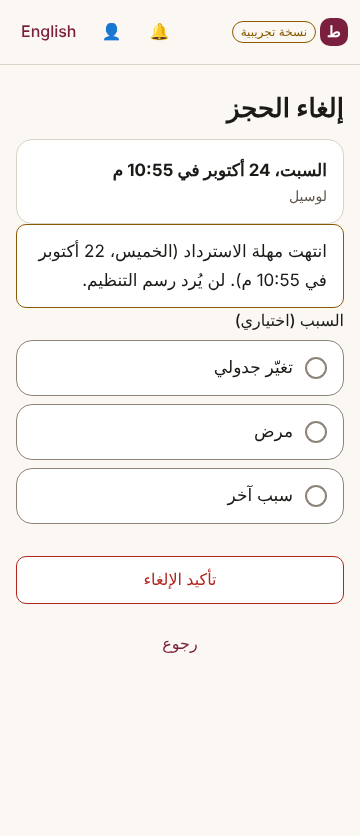
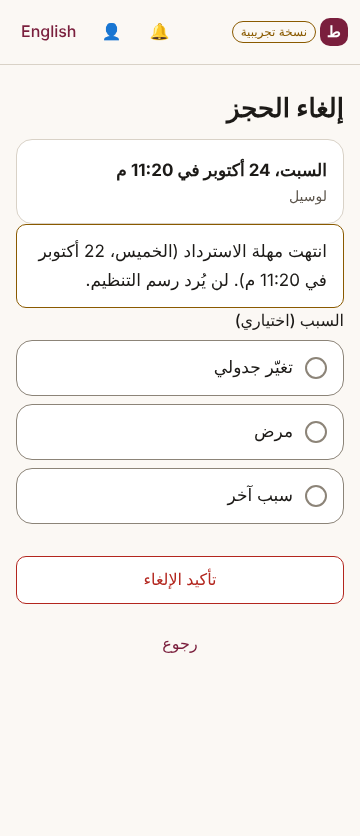
Audit remediation F1 + F5: late-booking refund terms, admin sign-in lockout
F1 (critical): the review screen promised a full refund until a deadline that
had already passed. The API now reports the real terms (full_refund_window_open,
refund_if_cancelled_after_payment, late_cancel_refund_pct, acknowledgement_required).
After the full-refund cut-off a booking gets no checkout URL until the user
acknowledges the no-refund terms via POST /bookings/{id}/checkout
{acknowledge_late_no_refund: true} (422 LATE_ACK_REQUIRED otherwise); the time is
stored on the booking and audited. The review screen shows a warning and a
required checkbox instead of the stale promise.

F5 (high): failed admin sign-ins and enrolments are recorded per e-mail hash and
IP prefix (migration 005). 5 failures per e-mail or 20 per IP prefix inside 15
minutes -> 429 ADMIN_LOGIN_LOCKED with Retry-After, checked before the TOTP or
token is verified; serialised per e-mail; lockouts audited; limits in app_config.

Tests: new F1 and F5 e2e tests; UI test asserts the warning and the required
acknowledgement. 18/18 tests, runbooks A/B, pytest 42/42, schema checks pass.

Claude-Session: https://claude.ai/code/session_01FEXgDqNsHx3oP1pnWG1BkE

Changed region(s): [[0.2444, 0.311, 0.825, 0.3732], [0.3056, 0.1866, 0.4889, 0.2177]]

diff --git a/qatar/api/src/routes/admin.js b/qatar/api/src/routes/admin.js
@@ -11,26 +11,82 @@ const ANY = ["owner", "ops", "finance", "trust_safety", "analyst", "researcher",
 const P4_REASONS = ["case_triage", "investigation", "second_approval", "appeal_review", "legal_request"];
 
 // ------------------------------------------------------------------ auth
+// Brute-force protection (audit F5): failed sign-ins / enrolments are recorded per e-mail hash and IP prefix.
+// Too many failures inside the window -> 429 + Retry-After, checked before the secret is verified.
+async function lockedFor(tx, kind, emailHash, ipTrunc, cfg) {
+  const win = cfg.adminLoginWindowMinutes;
+  const retry = async (rows, max) => {
+    if (rows.length < max) return 0;
+    const oldest = new Date(rows[rows.length - 1].attempted_at).getTime();
+    return Math.max(1, Math.ceil((oldest + win * 60000 - Date.now()) / 1000));
+  };
+  // per e-mail: failures since the last success, inside the window
+  const byEmail = await tx`
+    SELECT attempted_at FROM app.admin_auth_attempts
+     WHERE kind = ${kind} AND email_hash = ${emailHash} AND NOT succeeded AND attempted_at > now() - make_interval(mins => ${win})
+       AND attempted_at > COALESCE((SELECT max(attempted_at) FROM app.admin_auth_attempts
+                                     WHERE kind = ${kind} AND email_hash = ${emailHash} AND succeeded), '-infinity')
+     ORDER BY attempted_at DESC LIMIT ${cfg.adminMaxFailsPerEmail}`;
+  const e = await retry(byEmail, cfg.adminMaxFailsPerEmail);
+  if (e) return { retryAfter: e, scope: "email" };
+  if (!ipTrunc) return null;
+  // per IP prefix: all failed sign-ins and enrolments, any e-mail
+  const byIp = await tx`
+    SELECT attempted_at FROM app.admin_auth_attempts
+     WHERE ip_trunc = ${ipTrunc}::inet AND NOT succeeded AND attempted_at > now() - make_interval(mins => ${win})
+     ORDER BY attempted_at DESC LIMIT ${cfg.adminMaxFailsPerIp}`;
+  const i = await retry(byIp, cfg.adminMaxFailsPerIp);
+  return i ? { retryAfter: i, scope: "ip" } : null;
+}
+
+// Runs check -> verify -> record in one transaction, serialised per e-mail so parallel guesses cannot overshoot the limit.
+async function throttledAttempt(ctx, kind, email, verify) {
+  const emailHash = sha256hex(email);
+  const out = await ctx.sql.begin(async (tx) => {
+    await tx`SELECT pg_advisory_xact_lock(hashtext(${`admin-auth:${kind}:${emailHash}`}))`;
+    const locked = await lockedFor(tx, kind, emailHash, ctx.ipTrunc, ctx.cfg);
+    if (locked) return { locked };
+    const ok = await verify(tx);
+    await tx`INSERT INTO app.admin_auth_attempts (kind, email_hash, ip_trunc, succeeded)
+             VALUES (${kind}, ${emailHash}, ${ctx.ipTrunc}::inet, ${!!ok})`;
+    return { ok };
+  });
+  if (out.locked) {
+    await audit(ctx.sql, null, `admin_${kind}_locked`, "admin_users", null, out.locked.scope, ctx.ipTrunc);
+    fail(429, "ADMIN_LOGIN_LOCKED", null, { retry_after: out.locked.retryAfter });
+  }
+  if (!out.ok) await new Promise((r) => setTimeout(r, 300));
+  return out.ok;
+}
+
 async function enroll(ctx) {
-  const { sql, body, keys } = ctx;
-  const email = String(body.email || "").toLowerCase();
-  const [a] = await sql`SELECT * FROM app.admin_users WHERE lower(email) = ${email} AND status = 'active'`;
-  if (!a || !a.enroll_token_hash || a.enroll_token_hash.trim() !== sha256hex(String(body.enroll_token || "")) || new Date(a.enroll_expires_at) < new Date())
-    fail(401, "ENROLLMENT_INVALID");
+  const { body, keys } = ctx;
+  const email = String(body.email || "").trim().toLowerCase();
+  let admin = null;
   const secret = newTotpSecret();
-  await sql`UPDATE app.admin_users SET totp_secret_enc = ${encrypt(keys.dataKey, secret)}, mfa_enabled = true,
-                   enroll_token_hash = NULL, enroll_expires_at = NULL WHERE id = ${a.id}`;
-  await audit(sql, a.id, "admin_mfa_enrolled", "admin_users", a.id, "totp");
-  return json(200, { secret, otpauth_uri: `otpauth://totp/%7BBRAND%7D%20Admin:${encodeURIComponent(a.email)}?secret=${secret}&issuer=%7BBRAND%7D&digits=6&period=30` });
+  const ok = await throttledAttempt(ctx, "enroll", email, async (tx) => {
+    const [a] = await tx`SELECT * FROM app.admin_users WHERE lower(email) = ${email} AND status = 'active'`;
+    if (!a || !a.enroll_token_hash || a.enroll_token_hash.trim() !== sha256hex(String(body.enroll_token || "")) || new Date(a.enroll_expires_at) < new Date())
+      return false;
+    await tx`UPDATE app.admin_users SET totp_secret_enc = ${encrypt(keys.dataKey, secret)}, mfa_enabled = true,
+                    enroll_token_hash = NULL, enroll_expires_at = NULL WHERE id = ${a.id}`;
+    await audit(tx, a.id, "admin_mfa_enrolled", "admin_users", a.id, "totp");
+    admin = a;
+    return true;
+  });
+  if (!ok) fail(401, "ENROLLMENT_INVALID");
+  return json(200, { secret, otpauth_uri: `otpauth://totp/%7BBRAND%7D%20Admin:${encodeURIComponent(admin.email)}?secret=${secret}&issuer=%7BBRAND%7D&digits=6&period=30` });
 }
 
 async function login(ctx) {
   const { sql, body, keys } = ctx;
-  const [a] = await sql`SELECT * FROM app.admin_users WHERE lower(email) = ${String(body.email || "").toLowerCase()} AND status = 'active'`;
-  if (!a || !a.totp_secret_enc || !totpVerify(decrypt(keys.dataKey, a.totp_secret_enc), String(body.totp_code || ""))) {
-    await new Promise((r) => setTimeout(r, 300));
-    fail(401, "LOGIN_FAILED");
-  }
+  const email = String(body.email || "").trim().toLowerCase();
+  let a = null;
+  const ok = await throttledAttempt(ctx, "login", email, async (tx) => {
+    [a] = await tx`SELECT * FROM app.admin_users WHERE lower(email) = ${email} AND status = 'active'`;
+    return !!(a && a.totp_secret_enc && totpVerify(decrypt(keys.dataKey, a.totp_secret_enc), String(body.totp_code || "")));
+  });
+  if (!ok) fail(401, "LOGIN_FAILED");
   await sql`UPDATE app.admin_users SET last_login_at = now() WHERE id = ${a.id}`;
   await audit(sql, a.id, "admin_login", "admin_users", a.id, "totp", ctx.ipTrunc);
   const tokens = await issueTokens(ctx, "admin", a.id);

diff --git a/qatar/api/src/routes/user.js b/qatar/api/src/routes/user.js
@@ -64,6 +64,20 @@ async function ownedBooking(sql, ctx, id, lock = false) {
 const district = (s, locale) => (locale === "en" ? s.district_hint_en : s.district_hint_ar);
 const hoursBefore = (ts, h) => new Date(new Date(ts).getTime() - h * 3600 * 1000);
 
+// Refund terms that apply to a booking right now (audit F1): after the full-refund cut-off the fee is not refunded
+// (or only late_cancel_refund_pct), so an unpaid booking must carry an explicit acknowledgement before checkout.
+async function refundTerms(sql, b, s = null) {
+  const [cp] = await sql`SELECT full_refund_until_hours, late_cancel_refund_pct FROM app.cancellation_policies WHERE version = ${b.cancellation_policy_version}`;
+  if (!s) [s] = await sql`SELECT starts_at FROM app.event_sessions WHERE id = ${b.session_id}`;
+  const fullUntil = hoursBefore(s.starts_at, cp.full_refund_until_hours);
+  const windowOpen = new Date() <= fullUntil;
+  return { fullUntil, windowOpen, hours: cp.full_refund_until_hours, pct: cp.late_cancel_refund_pct,
+    afterPayment: windowOpen ? "full" : cp.late_cancel_refund_pct > 0 ? "partial" : "none",
+    ackRequired: b.status === "payment_pending" && !windowOpen && !b.late_no_refund_ack_at };
+}
+const termsView = (t) => ({ full_refund_until: qa(t.fullUntil), full_refund_until_hours: t.hours, full_refund_window_open: t.windowOpen,
+  refund_if_cancelled_after_payment: t.afterPayment, late_cancel_refund_pct: t.pct, acknowledgement_required: t.ackRequired ? "late_no_refund" : null });
+
 async function tableMembers(sql, tableId) {
   return sql`
     SELECT b.id AS booking_id, b.user_id, u.display_name FROM app.table_assignments a
@@ -412,8 +426,10 @@ async function createBooking(ctx) {
     throw e;
   }
   const { b, p } = result;
+  const terms = await refundTerms(sql, b, s);
   return json(201, { booking_id: b.id, ref: b.booking_ref, status: b.status, hold_expires_at: qa(b.hold_expires_at),
-    checkout_url: ctx.psp.checkoutUrl(b.id, p.psp_payment_intent_id), amount: money(b.price_minor, locale) });
+    checkout_url: terms.ackRequired ? null : ctx.psp.checkoutUrl(b.id, p.psp_payment_intent_id), amount: money(b.price_minor, locale),
+    cancellation: termsView(terms) });
 }
 
 async function listBookings(ctx) {
@@ -440,10 +456,12 @@ async function getBooking(ctx) {
   const b = await ownedBooking(sql, ctx, ctx.params.id);
   const [p] = await sql`SELECT * FROM app.payments WHERE booking_id = ${b.id} ORDER BY created_at DESC LIMIT 1`;
   const holdValid = b.status === "payment_pending" && b.hold_expires_at && new Date(b.hold_expires_at) > new Date();
+  const terms = await refundTerms(sql, b);
   return json(200, { id: b.id, ref: b.booking_ref, status: b.status, hold_expires_at: qa(b.hold_expires_at),
     amount: money(b.price_minor, locale),
     payment: p ? { status: p.status, failure_code: p.failure_code } : null,
-    checkout_url: holdValid && p && p.status === "created" ? ctx.psp.checkoutUrl(b.id, p.psp_payment_intent_id) : null });
+    checkout_url: holdValid && !terms.ackRequired && p && p.status === "created" ? ctx.psp.checkoutUrl(b.id, p.psp_payment_intent_id) : null,
+    cancellation: termsView(terms) });
 }
 
 async function newCheckout(ctx) {
@@ -452,6 +470,12 @@ async function newCheckout(ctx) {
     const b = await ownedBooking(tx, ctx, ctx.params.id, true);
     if (b.status !== "payment_pending") fail(409, "PAYMENT_NOT_PENDING");
     if (!b.hold_expires_at || new Date(b.hold_expires_at) <= new Date()) fail(409, "HOLD_EXPIRED");
+    const terms = await refundTerms(tx, b);
+    if (terms.ackRequired) {
+      if (ctx.body.acknowledge_late_no_refund !== true) fail(422, "LATE_ACK_REQUIRED", [{ field: "acknowledge_late_no_refund", code: "REQUIRED" }]);
+      await tx`UPDATE app.bookings SET late_no_refund_ack_at = now() WHERE id = ${b.id}`;
+      await audit(tx, null, "late_no_refund_ack", "bookings", b.id, terms.afterPayment);
+    }
     const pays = await tx`SELECT * FROM app.payments WHERE booking_id = ${b.id} ORDER BY created_at DESC`;
     if (pays[0] && pays[0].status === "created") return { b, p: pays[0] };
     return { b, p: await createPayment(tx, ctx, b, pays.length) };
@@ -495,11 +519,14 @@ async function eventDetails(ctx) {
   const now = new Date();
   const fullUntil = hoursBefore(s.starts_at, cp.full_refund_until_hours);
   const cancellable = ["payment_pending", "paid_awaiting_group", "group_locked", "revealed"].includes(b.status) && now < new Date(s.starts_at);
+  const terms = await refundTerms(sql, b, s);
   const [p] = await sql`SELECT * FROM app.payments WHERE booking_id = ${b.id} ORDER BY (status IN ('succeeded','refunded','partially_refunded')) DESC, created_at DESC LIMIT 1`;
   const out = {
     booking: { id: b.id, ref: b.booking_ref, status: b.status, ...(b.cancel_reason_code ? { cancel_reason: b.cancel_reason_code } : {}),
       cancellation: { policy_version: cp.version, full_refund_until: qa(fullUntil), can_cancel: cancellable,
-        refund_if_cancelled_now: cancellable && b.status !== "payment_pending" ? (now <= fullUntil ? "full" : (cp.late_cancel_refund_pct > 0 ? "partial" : "none")) : null } },
+        refund_if_cancelled_now: cancellable && b.status !== "payment_pending" ? (now <= fullUntil ? "full" : (cp.late_cancel_refund_pct > 0 ? "partial" : "none")) : null,
+        full_refund_until_hours: terms.hours, full_refund_window_open: terms.windowOpen, refund_if_cancelled_after_payment: terms.afterPayment, late_cancel_refund_pct: terms.pct,
+        acknowledgement_required: terms.ackRequired ? "late_no_refund" : null, late_no_refund_ack_at: qa(b.late_no_refund_ack_at) } },
     session: { experience: s.experience, conversation_language: s.conversation_language.trim(), starts_at: qa(s.starts_at), ends_at: qa(s.ends_at),
       timezone: "Asia/Qatar", district: district(s, locale),
       food_price_band: { max_minor: tier.max_spend_minor, display: locale === "en" ? tier.label_en : tier.label_ar },

diff --git a/qatar/web/app.js b/qatar/web/app.js
@@ -438,6 +438,7 @@ async function scrReview(id) {
   const b = bR.data, e = eR.data;
   if (b.status !== "payment_pending") { go(`#/booking/${id}`); return; }
   const expired = !b.hold_expires_at || new Date(b.hold_expires_at) <= new Date();
+  const needAck = e.booking.cancellation.acknowledgement_required === "late_no_refund";
   view(T("reviewTitle"), `
     <h1>${esc(T("reviewTitle"))}</h1>
     <section class="card"><dl class="facts">
@@ -450,13 +451,13 @@ async function scrReview(id) {
       <div class="kv"><span>${esc(T("feeNow"))}</span><strong>${esc(b.amount.display)}</strong></div>
       <div class="kv"><span>${esc(T("foodAtVenue"))}</span><span class="muted">${esc(T("foodBand", { band: e.session.food_price_band.display }))}</span></div>
     </section>
-    <div class="banner banner-info"><span class="icon" aria-hidden="true">ℹ</span><div>${esc(T("policyBox", { deadline: fmtDate(e.booking.cancellation.full_refund_until) }))}</div></div>
+    ${policyHtml(e.booking.cancellation, b.amount.display)}
     ${b.payment && b.payment.status === "failed" ? `<div class="banner banner-warning" role="alert"><div>${esc(T("paymentFailed"))} ${esc(T("noDoubleCharge"))}</div></div>` : ""}
     <p class="label" id="hold">${expired ? "" : `${esc(T("holdTimer"))} <span class="num" id="clock"></span>`}</p>
     <p class="sr-only" aria-live="polite" id="holdlive"></p>
     <div id="err" role="alert">${expired ? errorBanner({ message: T("holdExpired") }) : ""}</div>
     ${expired ? `<a class="btn btn-primary btn-block" href="#/sessions">${esc(T("chooseAgain"))}</a>`
-      : `<button class="btn btn-primary btn-block" id="pay">${esc(T("pay", { fee: b.amount.display }))}</button>`}
+      : `<button class="btn btn-primary btn-block" id="pay" ${needAck ? "disabled" : ""}>${esc(T("pay", { fee: b.amount.display }))}</button>`}
     <button class="link-btn" id="change">${esc(T("changeSession"))}</button>`);
   if (!expired) {
     const end = new Date(b.hold_expires_at).getTime();
@@ -467,11 +468,13 @@ async function scrReview(id) {
       if (s === 0) { clearTimers(); scrReview(id); }
     };
     tick(); every(1000, tick);
+    if (needAck) $("#ack").onchange = () => { $("#pay").disabled = !$("#ack").checked; };
     $("#pay").onclick = async () => {
+      if (needAck && !$("#ack").checked) return;
       $("#pay").disabled = true;
       let url = b.checkout_url;
       if (!url) {
-        const c = await api("POST", `/api/v1/bookings/${id}/checkout`);
+        const c = await api("POST", `/api/v1/bookings/${id}/checkout`, needAck ? { acknowledge_late_no_refund: true } : undefined);
         if (!c.ok) { $("#err").innerHTML = errorBanner(c.data); $("#pay").disabled = false; return; }
         url = c.data.checkout_url;
       }
@@ -480,6 +483,19 @@ async function scrReview(id) {
     };
   }
   $("#change").onclick = async () => { await api("POST", `/api/v1/bookings/${id}/cancel`, {}); go("#/sessions"); };
+}
+
+// Cancellation terms before paying (audit F1): never promise a refund deadline that has already passed.
+function policyHtml(c, fee) {
+  if (c.full_refund_window_open !== false) {
+    return `<div class="banner banner-info"><span class="icon" aria-hidden="true">ℹ</span><div>${esc(T("policyBox", { deadline: fmtDate(c.full_refund_until) }))}</div></div>`;
+  }
+  const partial = c.refund_if_cancelled_after_payment === "partial";
+  return `<div class="banner banner-warning" id="late"><span class="icon" aria-hidden="true">⚠</span><div>
+      <strong>${esc(T("lateTitle", { hours: c.full_refund_until_hours }))}</strong><br>
+      ${esc(T(partial ? "latePartial" : "lateNone", { fee, pct: c.late_cancel_refund_pct }))} ${esc(T("lateQuorum"))}</div></div>
+    ${c.acknowledgement_required === "late_no_refund" ? `<label class="option"><input type="checkbox" id="ack" aria-describedby="late"><span class="tick" aria-hidden="true"></span>
+      <span>${esc(T(partial ? "lateAckPartial" : "lateAck", { pct: c.late_cancel_refund_pct }))}</span></label>` : ""}`;
 }
 
 async function scrPayReturn(id) {

diff --git a/qatar/web/strings.js b/qatar/web/strings.js
@@ -30,6 +30,9 @@ export const STRINGS = {
     reviewTitle: "راجع حجزك", experience: "التجربة", dateTime: "الموعد", district: "المنطقة", tableLanguage: "لغة الطاولة", groupSizeLabel: "حجم المجموعة",
     feeNow: "رسم التنظيم (يُدفع الآن)", foodAtVenue: "الطعام والمشروبات (تُدفع للمكان)", foodBand: "ضمن ميزانيتك: {band}",
     policyBox: "يمكنك الإلغاء مع استرداد كامل حتى {deadline}. إذا لم تكتمل الطاولة نُلغيها ونرد المبلغ كاملًا أو ننقلك لموعد آخر باختيارك.",
+    lateTitle: "يبدأ هذا الموعد خلال أقل من {hours} ساعة", lateNone: "إذا ألغيت بعد الدفع فلن يُسترد رسم التنظيم ({fee}).",
+    latePartial: "إذا ألغيت بعد الدفع فسيُسترد {pct}% فقط من رسم التنظيم ({fee}).", lateQuorum: "إذا لم تكتمل الطاولة نُلغيها نحن ونرد المبلغ كاملًا أو ننقلك لموعد آخر باختيارك.",
+    lateAck: "أفهم وأوافق على أن رسم التنظيم لا يُسترد إذا ألغيت هذا الحجز.", lateAckPartial: "أفهم وأوافق على أنه يُسترد {pct}% فقط من رسم التنظيم إذا ألغيت هذا الحجز.",
     holdTimer: "نحجز مقعدك لمدة", pay: "ادفع {fee}", changeSession: "تغيير الموعد", holdExpired: "انتهت مدة حجز المقعد. المقاعد قد تكون تغيّرت.",
     chooseAgain: "اختر الموعد من جديد", paymentFailed: "لم يكتمل الدفع.", payNow: "ادفع الآن", noDoubleCharge: "لن تُخصم مرتين.",
     // SCR-05P
@@ -102,6 +105,9 @@ export const STRINGS = {
     reviewTitle: "Review your booking", experience: "Experience", dateTime: "Date & time", district: "Area", tableLanguage: "Table language", groupSizeLabel: "Group size",
     feeNow: "Organising fee (paid now)", foodAtVenue: "Food & drinks (paid to the venue)", foodBand: "Within your budget: {band}",
     policyBox: "You can cancel with a full refund until {deadline}. If the table doesn't fill, we cancel it and refund you in full or move you to another session — your choice.",
+    lateTitle: "This session starts in less than {hours} hours", lateNone: "If you cancel after paying, the organising fee ({fee}) isn't refunded.",
+    latePartial: "If you cancel after paying, only {pct}% of the organising fee ({fee}) is refunded.", lateQuorum: "If the table doesn't fill, we cancel it and refund you in full or move you to another session — your choice.",
+    lateAck: "I understand and agree that the organising fee isn't refunded if I cancel this booking.", lateAckPartial: "I understand and agree that only {pct}% of the organising fee is refunded if I cancel this booking.",
     holdTimer: "We're holding your seat for", pay: "Pay {fee}", changeSession: "Change session", holdExpired: "Your seat hold expired. Availability may have changed.",
     chooseAgain: "Choose a session again", paymentFailed: "Payment wasn't completed.", payNow: "Pay now", noDoubleCharge: "You won't be charged twice.",
     redirecting: "Taking you to the secure payment page…", confirming: "Confirming with your bank… Please don't close this page or pay again.",

diff --git a/qatar/web/admin/admin.js b/qatar/web/admin/admin.js
@@ -40,7 +40,7 @@ function view(title, html) {
   if (h) { h.tabIndex = -1; h.focus(); }
 }
 const msg = (r, okText) => r.ok ? `<div class="banner banner-success" role="status"><div>${esc(okText || "Done")}${r.status === 202 ? " — sent for approval (maker-checker)." : ""}</div></div>`
-  : `<div class="banner banner-danger" role="alert"><div><strong>${esc(r.data.code || "Error")}</strong> ${esc(r.data.message || "")} ${r.data.details ? `<code>${esc(JSON.stringify(r.data.details))}</code>` : ""}</div></div>`;
+  : `<div class="banner banner-danger" role="alert"><div><strong>${esc(r.data.code || "Error")}</strong> ${esc(r.data.message || "")}${r.data.retry_after ? ` Try again in ${Math.ceil(r.data.retry_after / 60)} min.` : ""} ${r.data.details ? `<code>${esc(JSON.stringify(r.data.details))}</code>` : ""}</div></div>`;
 function flash(html) { const el = document.getElementById("flash"); el.innerHTML = html; el.scrollIntoView({ block: "nearest" }); }
 
 const NAV = [

diff --git a/qatar/api/src/lib/i18n.js b/qatar/api/src/lib/i18n.js
@@ -56,6 +56,8 @@ export const ERRORS = {
   CONFLICT: ["تعارض مع حالة البيانات الحالية.", "This conflicts with the current state."],
   ENROLLMENT_INVALID: ["رمز التسجيل غير صالح أو منتهي.", "The enrolment token is invalid or expired."],
   LOGIN_FAILED: ["البريد أو الرمز غير صحيح.", "Email or code is incorrect."],
+  ADMIN_LOGIN_LOCKED: ["محاولات دخول كثيرة. انتظر قليلًا ثم حاول مجددًا.", "Too many sign-in attempts. Please wait and try again."],
+  LATE_ACK_REQUIRED: ["أكّد أنك تفهم أن رسم التنظيم لهذا الموعد لا يُسترد عند الإلغاء.", "Please confirm you understand the organising fee for this session isn't refunded if you cancel."],
 };
 
 export function errorMessage(code, locale) {

diff --git a/qatar/api/src/lib/config.js b/qatar/api/src/lib/config.js
@@ -20,6 +20,9 @@ export async function loadConfig(sql, getEnv) {
     refreshTtlDays: Number(get("REFRESH_TOKEN_TTL_DAYS", "30")),
     adminTtl: Number(get("ADMIN_TOKEN_TTL_SECONDS", "3600")),
     packingMode: get("PACKING_MODE", "min_leftovers"),
+    adminMaxFailsPerEmail: Number(get("ADMIN_LOGIN_MAX_FAILS_PER_EMAIL", "5")),
+    adminMaxFailsPerIp: Number(get("ADMIN_LOGIN_MAX_FAILS_PER_IP", "20")),
+    adminLoginWindowMinutes: Number(get("ADMIN_LOGIN_WINDOW_MINUTES", "15")),
     otpTtl: 300, otpResendAfter: 45, otpMaxAttempts: 5,
   };
   loadedAt = Date.now();

diff --git a/docs/qatar-phase4/README.md b/docs/qatar-phase4/README.md
@@ -16,6 +16,8 @@ Everything here is **staging**: OTP codes come back in the API response and paym
 | `qatar/db/migrations/001_init.sql` | Schema: 34 tables, enums, functions (`hold_seat`, `rebook_booking`, `cancel_table_quorum`, …) |
 | `qatar/db/migrations/002_api_support.sql` | Admin TOTP columns; `refresh_tokens`, `idempotency_keys`, `server_keys`, `admin_approvals`; staging `app_config`; pinned function `search_path`; RLS on every table; revokes for client roles |
 | `qatar/db/migrations/003_otp_phone.sql` | Encrypted phone on OTP challenges, OTP purge, `captured_payment_for` (follows a rebook chain), chain-aware auto refunds |
+| `qatar/db/migrations/004_cron_and_indexes.sql` | 47 covering foreign-key indexes; pg_cron jobs (hold release, unresolved organizer-cancel refunds) where pg_cron exists |
+| `qatar/db/migrations/005_late_ack_and_admin_throttle.sql` | Audit F1: `bookings.late_no_refund_ack_at` (no-refund acknowledgement before paying after the refund cut-off). Audit F5: `admin_auth_attempts` + `ADMIN_LOGIN_*` config for admin sign-in/enrolment lockout (429 + Retry-After); daily purge job |
 | `qatar/ops/seed_common.sql` | Staging seed: admins, tiers, venues, full v0.3 questionnaire, legal docs, 3 Arabic sessions on sale, `sim` helpers |
 | `qatar/api/src/` | Framework-free API: `handle(Request) → Response`, the same code on Node and Deno |
 | `qatar/api/edge-index.ts` | Supabase Edge Function entry point (deployed as `index.ts`) |
@@ -61,7 +63,7 @@ Prerequisites: Node 22 and PostgreSQL 16+.
 
 ```bash
 createdb qatar_dev
-for f in qatar/db/migrations/00{1,2,3,4}_*.sql qatar/ops/seed_common.sql; do psql -v ON_ERROR_STOP=1 -1 -d qatar_dev -f "$f"; done
+for f in qatar/db/migrations/00{1,2,3,4,5}_*.sql qatar/ops/seed_common.sql; do psql -v ON_ERROR_STOP=1 -1 -d qatar_dev -f "$f"; done
 cd qatar/api && npm ci
 DATABASE_URL=postgres://localhost/qatar_dev PORT=8787 npm start
 # user app: http://localhost:8787/   admin: http://localhost:8787/admin/
